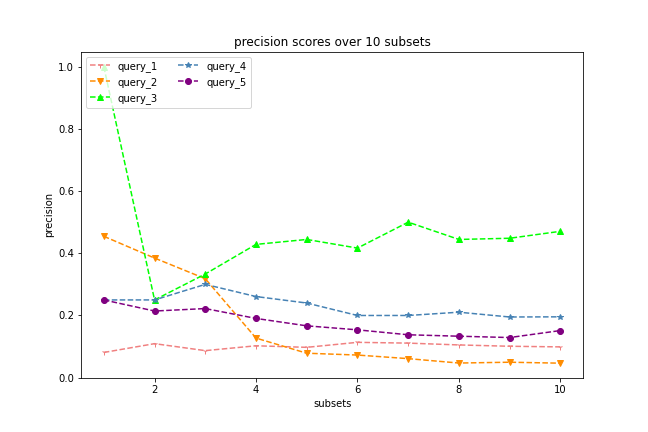
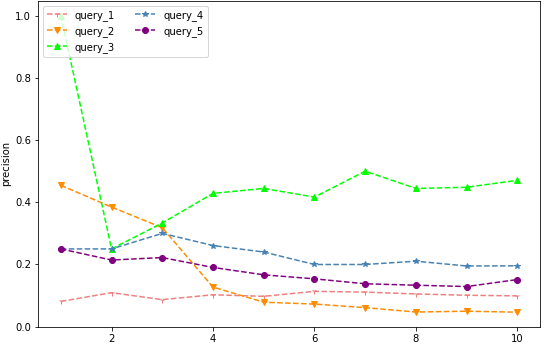
Updated QA-eval scores and KG statistics

diff --git a/Evaluation/auto_eval_correct_related_BERT_ent.py b/Evaluation/auto_eval_correct_related_BERT_ent.py
@@ -206,17 +206,17 @@ def model_train(FILE_NAME, UPSAMPLE, in_path, out_path, SAVE_MODEL_PATH):
     # Splitting the data into training (80%) and test set(20%)
     X = df['paragraph']
     y = df['label']
-    _X_train, X_test, _y_train, y_test = train_test_split(X, y, train_size=0.8, random_state=42, shuffle=True, stratify=y)
+    X_train, X_test, y_train, y_test = train_test_split(X, y, train_size=0.8, random_state=42, shuffle=True, stratify=y)
 
-    train_data = pd.concat([_X_train, _y_train], axis=1)
-    print(train_data.shape)
-    train_subsets = divide_data(train_data)
+    # train_data = pd.concat([_X_train, _y_train], axis=1)
+    # print(train_data.shape)
+    # train_subsets = divide_data(train_data)
 
 
     ######## Train BERT on different portions of training set #############
     # for i,df in enumerate(train_subsets):
-    X_train, y_train = df['paragraph'], df['label']
-    print('Shapes of X_train, y_train: ', _X_train.shape, _y_train.shape)
+    # X_train, y_train = df['paragraph'], df['label']
+    print('Shapes of X_train, y_train: ', X_train.shape, y_train.shape)
     print('Shapes of X_test, y_test: ', X_test.shape, y_test.shape)
     ############ Encoding data to BERT ##########################
     # Tokenizer

diff --git a/Evaluation/viz.py b/Evaluation/viz.py
@@ -39,15 +39,17 @@ def viz_QA_performance(result_df_p, metric):
         raise ValueError('Error: wrong evaluation metric given!')
     for query, fold_scores in by_queries.items():
         y = [scores[key] for scores in fold_scores]
-        x = [i for i in range(1, 11)]
+        x = [str(i) for i in range(1, 11)]
         plt.plot(x, y, markers[query], color=colors[query], label=query)
 
     plt.ylabel(metric)
-    plt.xlabel('subsets')
+    plt.xlabel('Q&A')
     plt.legend(loc='upper left', ncol=2)
     plt.title('%s scores over 10 subsets' % metric)
     plt.show()
     fig.savefig(r"C:\Users\hn0139\Documents\GitHub\CORD-19-KG\Evaluation\result\%s.png" % metric)
 
 
-viz_performance('C:\Users\huyen\OneDrive\Documents\GitHub\CORD-19-KG\Evaluation\result\QA_eval\QA_eval_scores.csv', F1')
+# viz_performance('C:\Users\huyen\OneDrive\Documents\GitHub\CORD-19-KG\Evaluation\result\QA_eval\QA_eval_scores.csv', F1')
+
+viz_QA_performance()
